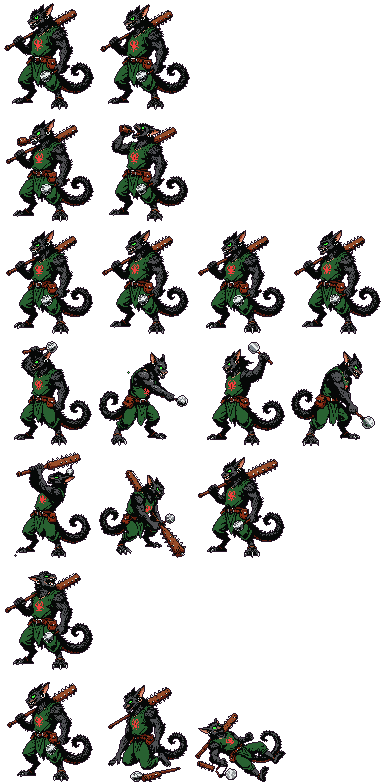
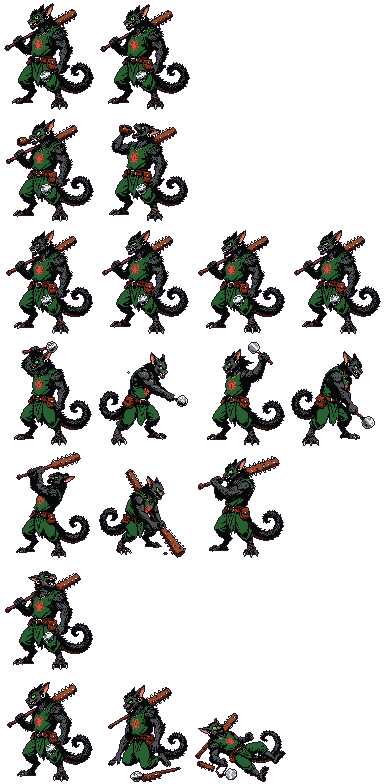
D675: cursed jackal frames, Lab boss club row two-handed
Claude-Session: https://claude.ai/code/session_01A2gnDWaoeJGbj3GPH4dnCF

diff --git a/design/figma_decision_register.md b/design/figma_decision_register.md
@@ -824,3 +824,4 @@ The end screen is drawn in Figma first (#54's "demo end screen", Claude draws). 
 | D666 | ROUTINE CALL | **The giant scorpion in the Mayor Hall cutscene** (D557, D556, D300; `cloud/mayor-boss`). `giant_scorpion.tscn` is a Node2D with a sprite (×2, 256×160) and idle, walk and sting animations. It has no body and no hitbox, so it never deals damage. **Wall burst:** after the burst it walks out of the breach (`ScorpionOut` x 840 → `ScorpionStand` x 740, fading in) and rears (sting) with a roar (`brass_collector_roar`, the shared creature roars). The warrior climbs out in front of it and shouts. The scorpion turns and walks back into the breach, fading out, and then `MayorHall_WallBurst` plays. **Win:** the warrior falls; the scorpion comes back to his body, the body fades ("taken"), the scorpion leaves through the breach, then `MayorHall_Victory` plays (Kusakam only, in clouds) and the screen goes black → LabCells. **Loss:** black, `MayorHall_Defeat` (the warrior orders the clan to bind him, D556) → LabCells, no Game Over. Draft lines `[ЧЕРНЕТКА]` / `[DRAFT]` in `dialogue_quest/MayorHall_*.dqd` and `dialogue_quest/en/MayorHall_*.dqd`. |
 | D667 | TECH | **The axe wind-up is a copy, not a new drawing** (Sapega, 2026-10-23: «комфі знову намалював сокиру невірно»). Twice the model bent the axe in the Mayor Hall boss's wind-up, so `attack` frame 0 is now `ROT:attack:3:0`, a lossless copy of the row's last frame (the axe raised upright at the shoulder, drawn right). The swing reads raise → strike → follow-through → raise. |
 | D674 | OVERRIDE | **The Skills screen is a Dragon Nest skill window, and skills have ranks** (Sapega, 2026-10-23: «панель скілів як в Dragon Nest… з нашими скілами»; «так» to the frame). Figma: «🎮 Ігрове Меню» → `Skills — Dragon Nest style (D648 draft)` (node `533:6472`), shot `design/shots/figma_skills_dragon_nest.png`. Two trees side by side (the base tree and the chosen oath), a skill directly under its prerequisite with a gold line once the parent is learned, a level badge on locked slots (red when the hero is below it), the rank under each slot, a detail panel (rank now → next, SP, cooldown, Learn +1 / Reset), skill points and Reset all at the bottom. **Ranks:** passives up to 3, actives up to 5; each rank costs JP and raises the skill's effect, numbers in data and checked against D642. |
+| D675 | TECH | **Frames for the cursed jackal and the two-handed club** (D646, D649, D653). `jackal_cursed` from candidate 1 (seed 118): idle 2, walk 4, attack 3 (crouch, leap, bite), hurt 1, death 3, 96×72; the model drew some frames facing left, so every frame whose glowing eye sits left of the body's middle was mirrored (lossless). The Lab boss's `club` row is redrawn with the club in both hands and no small mace, so in every row he holds only the weapon he strikes with. |

diff --git a/SampleProject/Assets/Characters/Enemies/jackal_cursed/README.md b/SampleProject/Assets/Characters/Enemies/jackal_cursed/README.md
@@ -1,0 +1,8 @@
+# Cursed jackal — the Laboratory's horror wolf-jackal (D589, D649, D653)
+
+`sheet.png` — **AI-generated** (a Steam release has to disclose it) by `python -I -B Scripts/Tools/comfy_sprite.py
+jackal_cursed` with the local ComfyUI, **Qwen-Image-Edit-2511** (Alibaba Qwen, licence **Apache 2.0**; GGUF Q5_K_M
+by unsloth) + Lightning LoRA, the hero's artist frame as the style reference. Candidate 1 (seed 118), Sapega's look.
+
+96×72 cells facing right (the left-facing frames were mirrored after generation), rows: idle 2, walk 4, attack 3
+(crouch, leap, bite), hurt 1, death 3. No foam in the art: the glowing blue foam is an in-game effect (D653).
